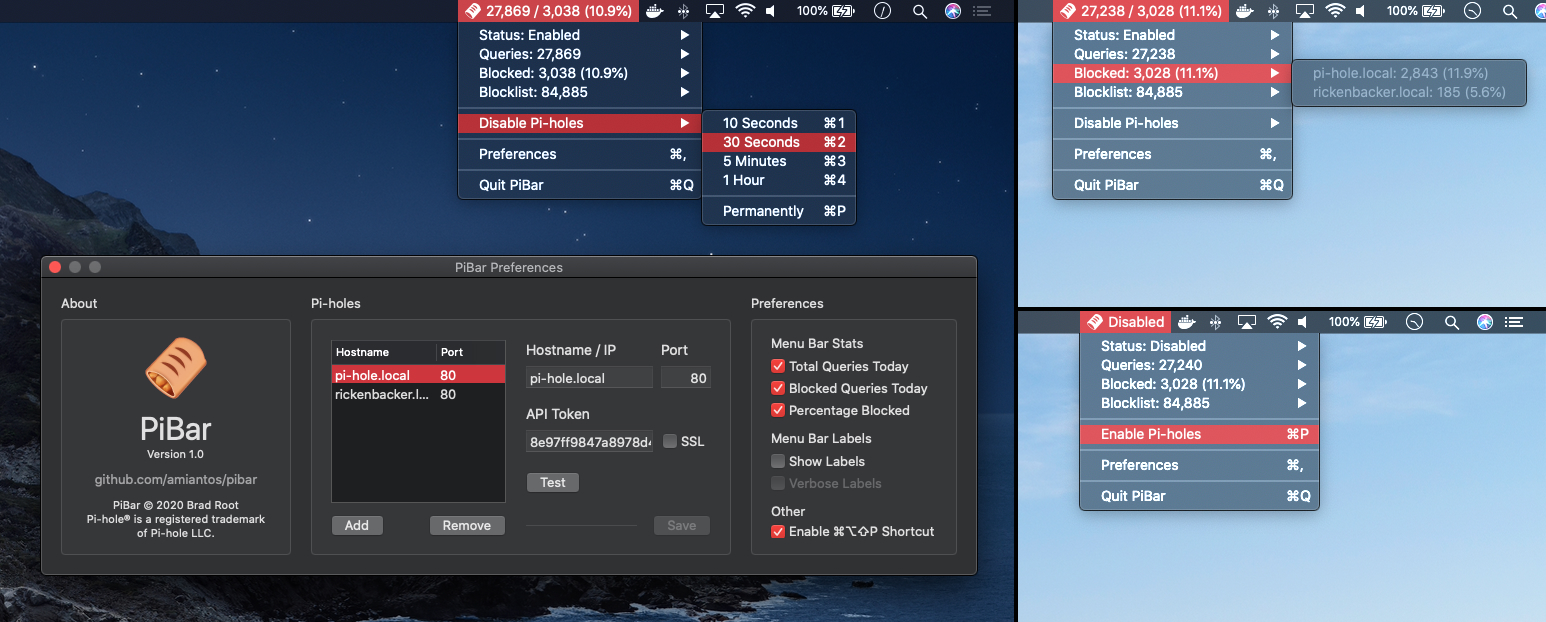
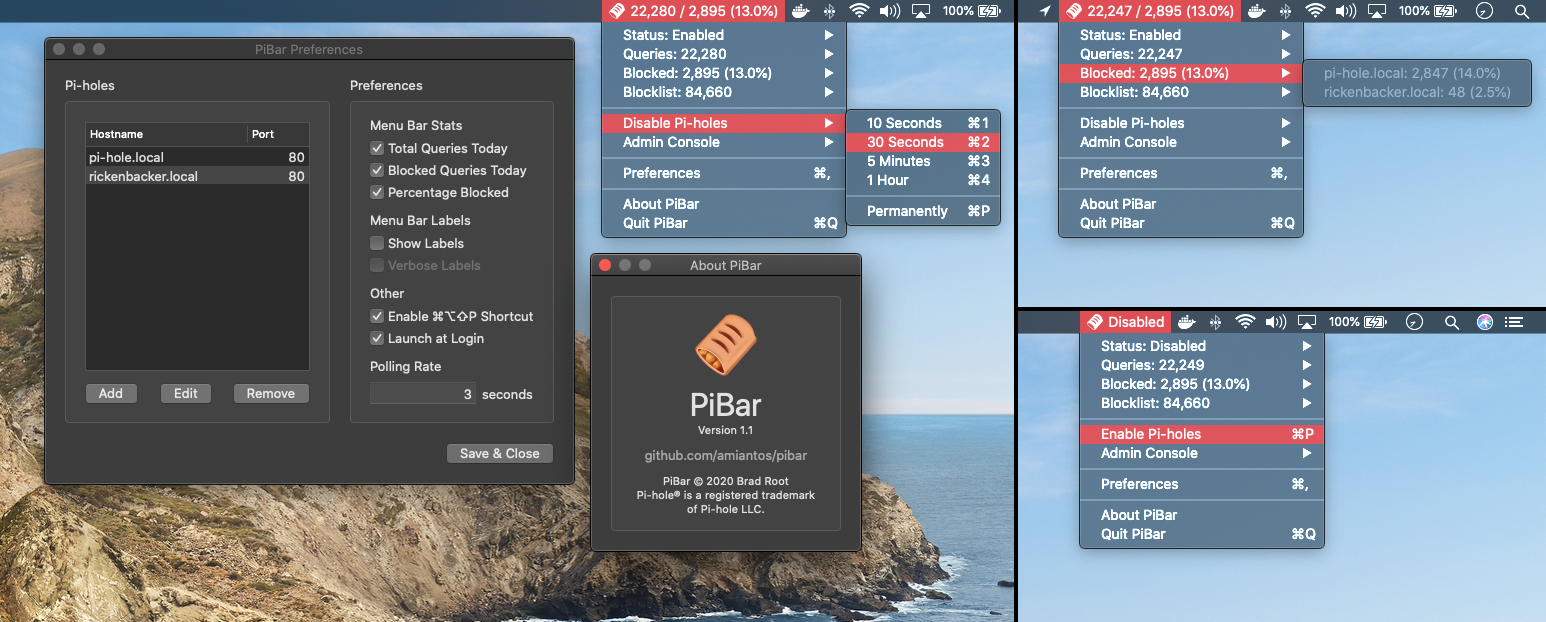
macOS 1.1 Final (#27)
* update version number

* run swiftformat

* add MPL notice to new files

* update about screen icon

* final build number

* update readme and screenshots

* remove defunct line from readme

diff --git a/Carthage/Checkouts/LaunchAtLogin/LaunchAtLoginHelper/main.swift b/Carthage/Checkouts/LaunchAtLogin/LaunchAtLoginHelper/main.swift
@@ -1,22 +1,22 @@
 import Cocoa
 
 final class AppDelegate: NSObject, NSApplicationDelegate {
-	func applicationDidFinishLaunching(_ notification: Notification) {
-		let bundleId = Bundle.main.bundleIdentifier!
-		// TODO: Make this more strict by only replacing at the end
-		let mainBundleId = bundleId.replacingOccurrences(of: "-LaunchAtLoginHelper", with: "")
+    func applicationDidFinishLaunching(_: Notification) {
+        let bundleId = Bundle.main.bundleIdentifier!
+        // TODO: Make this more strict by only replacing at the end
+        let mainBundleId = bundleId.replacingOccurrences(of: "-LaunchAtLoginHelper", with: "")
 
-		// Ensure the app is not already running
-		guard NSRunningApplication.runningApplications(withBundleIdentifier: mainBundleId).isEmpty else {
-			NSApp.terminate(nil)
-			return
-		}
+        // Ensure the app is not already running
+        guard NSRunningApplication.runningApplications(withBundleIdentifier: mainBundleId).isEmpty else {
+            NSApp.terminate(nil)
+            return
+        }
 
-		let pathComponents = (Bundle.main.bundlePath as NSString).pathComponents
-		let mainPath = NSString.path(withComponents: Array(pathComponents[0...(pathComponents.count - 5)]))
-		NSWorkspace.shared.launchApplication(mainPath)
-		NSApp.terminate(nil)
-	}
+        let pathComponents = (Bundle.main.bundlePath as NSString).pathComponents
+        let mainPath = NSString.path(withComponents: Array(pathComponents[0 ... (pathComponents.count - 5)]))
+        NSWorkspace.shared.launchApplication(mainPath)
+        NSApp.terminate(nil)
+    }
 }
 
 private let app = NSApplication.shared

diff --git a/Carthage/Checkouts/LaunchAtLogin/LaunchAtLogin/LaunchAtLogin.swift b/Carthage/Checkouts/LaunchAtLogin/LaunchAtLogin/LaunchAtLogin.swift
@@ -2,20 +2,20 @@ import Foundation
 import ServiceManagement
 
 public struct LaunchAtLogin {
-	private static let id = "\(Bundle.main.bundleIdentifier!)-LaunchAtLoginHelper"
+    private static let id = "\(Bundle.main.bundleIdentifier!)-LaunchAtLoginHelper"
 
-	public static var isEnabled: Bool {
-		get {
-			guard let jobs = (SMCopyAllJobDictionaries(kSMDomainUserLaunchd).takeRetainedValue() as? [[String: AnyObject]]) else {
-				return false
-			}
+    public static var isEnabled: Bool {
+        get {
+            guard let jobs = (SMCopyAllJobDictionaries(kSMDomainUserLaunchd).takeRetainedValue() as? [[String: AnyObject]]) else {
+                return false
+            }
 
-			let job = jobs.first { $0["Label"] as! String == id }
+            let job = jobs.first { $0["Label"] as! String == id }
 
-			return job?["OnDemand"] as? Bool ?? false
-		}
-		set {
-			SMLoginItemSetEnabled(id as CFString, newValue)
-		}
-	}
+            return job?["OnDemand"] as? Bool ?? false
+        }
+        set {
+            SMLoginItemSetEnabled(id as CFString, newValue)
+        }
+    }
 }

diff --git a/PiBar/Views/Preferences/PreferencesViewController.swift b/PiBar/Views/Preferences/PreferencesViewController.swift
@@ -41,8 +41,8 @@ class PreferencesViewController: NSViewController {
     @IBOutlet var verboseLabelsCheckbox: NSButton!
 
     @IBOutlet var shortcutEnabledCheckbox: NSButton!
-    @IBOutlet weak var launchAtLoginCheckbox: NSButton!
-    @IBOutlet weak var pollingRateTextField: NSTextField!
+    @IBOutlet var launchAtLoginCheckbox: NSButton!
+    @IBOutlet var pollingRateTextField: NSTextField!
 
     @IBOutlet var editButton: NSButton!
     @IBOutlet var removeButton: NSButton!
@@ -84,13 +84,13 @@ class PreferencesViewController: NSViewController {
         saveSettings()
     }
 
-    @IBAction func pollingRateTextFieldAction(_ sender: NSTextField) {
+    @IBAction func pollingRateTextFieldAction(_: NSTextField) {
         saveSettings()
     }
 
-    @IBAction func saveAndCloseButtonAction(_ sender: NSButton) {
+    @IBAction func saveAndCloseButtonAction(_: NSButton) {
         saveSettings()
-        self.view.window?.close()
+        view.window?.close()
     }
 
     // MARK: - View Lifecycle

diff --git a/PiBar/Manager/PiBarManager.swift b/PiBar/Manager/PiBarManager.swift
@@ -20,7 +20,7 @@ class PiBarManager: NSObject {
 
     private var networkOverview: PiholeNetworkOverview {
         didSet {
-            delegate?.updateNetwork(self.networkOverview)
+            delegate?.updateNetwork(networkOverview)
         }
     }
 
@@ -67,7 +67,6 @@ class PiBarManager: NSObject {
             updateInterval = newPollingRate
             startTimer()
         }
-
     }
 
     // Enable / Disable Pi-hole(s)
@@ -185,7 +184,7 @@ class PiBarManager: NSObject {
             Log.debug("Creating operation for \(pihole.identifier)")
             let operation = UpdatePiholeOperation(pihole)
             operation.completionBlock = { [unowned operation] in
-                    self.piholes[pihole.identifier] = operation.pihole
+                self.piholes[pihole.identifier] = operation.pihole
             }
             completionOperation.addDependency(operation)
             operationQueue.addOperation(operation)

diff --git a/PiBar/Manager/Operations/ChangePiholeStatusOperation.swift b/PiBar/Manager/Operations/ChangePiholeStatusOperation.swift
@@ -5,6 +5,9 @@
 //  Created by Brad Root on 5/26/20.
 //  Copyright © 2020 Brad Root. All rights reserved.
 //
+//  This Source Code Form is subject to the terms of the Mozilla Public
+//  License, v. 2.0. If a copy of the MPL was not distributed with this
+//  file, You can obtain one at http://mozilla.org/MPL/2.0/.
 
 import Foundation
 
@@ -25,7 +28,7 @@ final class ChangePiholeStatusOperation: AsyncOperation {
     }
 
     override func main() {
-        if self.status == .disable {
+        if status == .disable {
             pihole.api.disable(seconds: seconds) { _ in
                 self.state = .isFinished
             }

diff --git a/PiBar/Manager/Operations/AsyncOperation.swift b/PiBar/Manager/Operations/AsyncOperation.swift
@@ -5,6 +5,9 @@
 //  Created by Brad Root on 5/26/20.
 //  Copyright © 2020 Brad Root. All rights reserved.
 //
+//  This Source Code Form is subject to the terms of the Mozilla Public
+//  License, v. 2.0. If a copy of the MPL was not distributed with this
+//  file, You can obtain one at http://mozilla.org/MPL/2.0/.
 
 import Foundation
 
@@ -37,7 +40,7 @@ class AsyncOperation: Operation {
     }
 
     override func start() {
-        guard !self.isCancelled else {
+        guard !isCancelled else {
             state = .isFinished
             return
         }

diff --git a/PiBar/Views/Main Menu/MainMenuController.swift b/PiBar/Views/Main Menu/MainMenuController.swift
@@ -142,8 +142,8 @@ class MainMenuController: NSObject, NSMenuDelegate, PreferencesDelegate, PiBarMa
     }
 
     internal func updateNetwork(_ network: PiholeNetworkOverview) {
-        self.networkOverview = network
-        self.updateInterface()
+        networkOverview = network
+        updateInterface()
         DispatchQueue.main.async {
             self.setupWebAdminMenus()
         }

diff --git a/PiBar/Manager/Operations/UpdatePiholeOperation.swift b/PiBar/Manager/Operations/UpdatePiholeOperation.swift
@@ -5,6 +5,9 @@
 //  Created by Brad Root on 5/26/20.
 //  Copyright © 2020 Brad Root. All rights reserved.
 //
+//  This Source Code Form is subject to the terms of the Mozilla Public
+//  License, v. 2.0. If a copy of the MPL was not distributed with this
+//  file, You can obtain one at http://mozilla.org/MPL/2.0/.
 
 import Foundation
 

diff --git a/PiBar/Views/About/AboutViewController.swift b/PiBar/Views/About/AboutViewController.swift
@@ -5,6 +5,9 @@
 //  Created by Brad Root on 5/26/20.
 //  Copyright © 2020 Brad Root. All rights reserved.
 //
+//  This Source Code Form is subject to the terms of the Mozilla Public
+//  License, v. 2.0. If a copy of the MPL was not distributed with this
+//  file, You can obtain one at http://mozilla.org/MPL/2.0/.
 
 import Cocoa
 

diff --git a/PiBar/Views/About/AboutWindowController.swift b/PiBar/Views/About/AboutWindowController.swift
@@ -5,6 +5,9 @@
 //  Created by Brad Root on 5/26/20.
 //  Copyright © 2020 Brad Root. All rights reserved.
 //
+//  This Source Code Form is subject to the terms of the Mozilla Public
+//  License, v. 2.0. If a copy of the MPL was not distributed with this
+//  file, You can obtain one at http://mozilla.org/MPL/2.0/.
 
 import Cocoa
 

diff --git a/PiBar/Views/Preferences/PiholeSettingsViewController.swift b/PiBar/Views/Preferences/PiholeSettingsViewController.swift
@@ -5,6 +5,9 @@
 //  Created by Brad Root on 5/25/20.
 //  Copyright © 2020 Brad Root. All rights reserved.
 //
+//  This Source Code Form is subject to the terms of the Mozilla Public
+//  License, v. 2.0. If a copy of the MPL was not distributed with this
+//  file, You can obtain one at http://mozilla.org/MPL/2.0/.
 
 import Cocoa
 

diff --git a/README.md b/README.md
@@ -19,16 +19,15 @@ PiBar gives you all the tools you need to manage your [Pi-hole](https://pi-hole.
 
 ## Download
 
-- [Download PiBar v1.0 for macOS 10.12 and later](https://s3.amazonaws.com/amiantos/PiBar-1.0.zip)
+- [Download PiBar v1.1 for macOS 10.12 and later](https://s3.amazonaws.com/amiantos/PiBar-1.1.zip)
 - Or, [Purchase PiBar on the App Store](https://apps.apple.com/us/app/pibar-for-pi-hole/id1514292645?ls=1) for automatic updates.
 
 ## Quick Start
 
 1. Launch PiBar
 2. Click on the PiBar icon in your menu bar and go to Preferences
-3. Click Add to add your Pi-hole and API token
-    1. *You can use PiBar without an API token for a "stats only" mode*
-4. Click Test, if the test is successful, click "Save"
+3. Click Add to add your Pi-hole details
+4. Click Test, if the test is successful, click Save & Close
 5. Add more Pi-holes if you have them :)
 6. Adjust your menu bar display preferences
 7. Close the Preferences window and enjoy!
